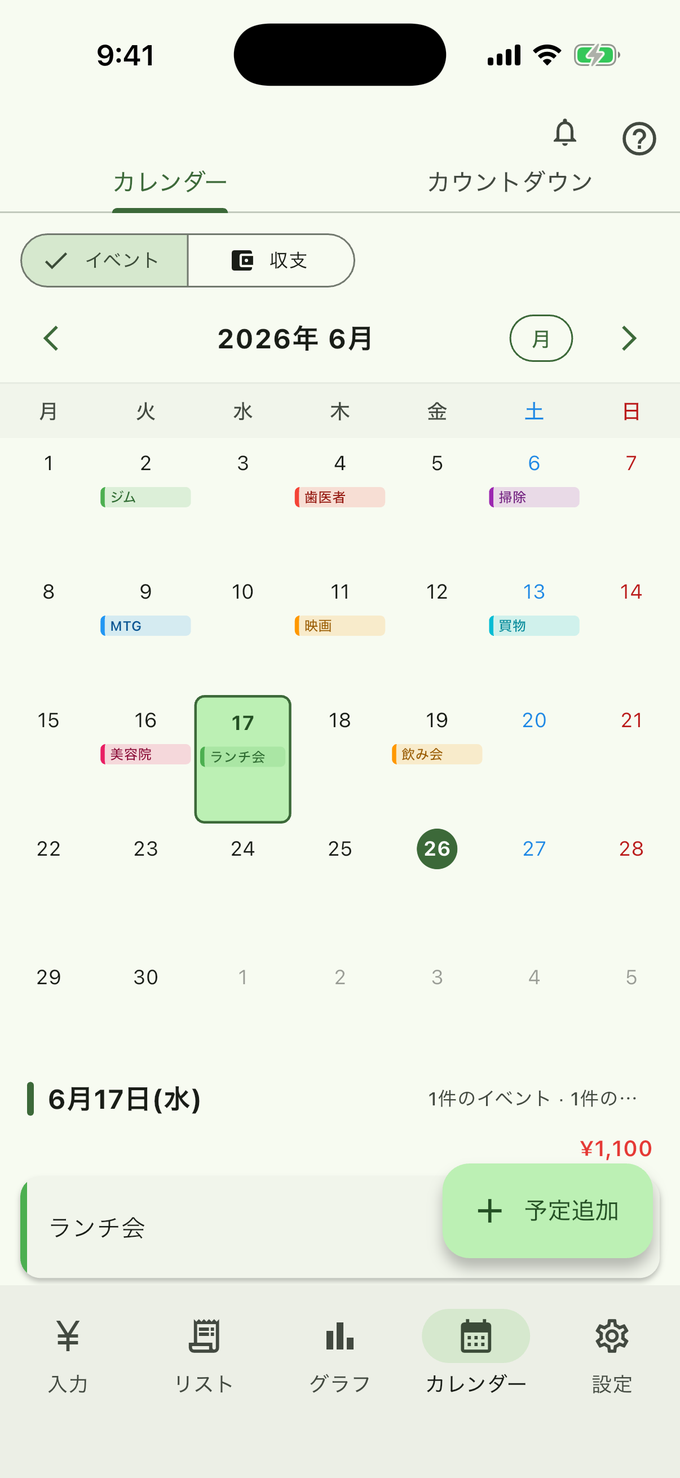
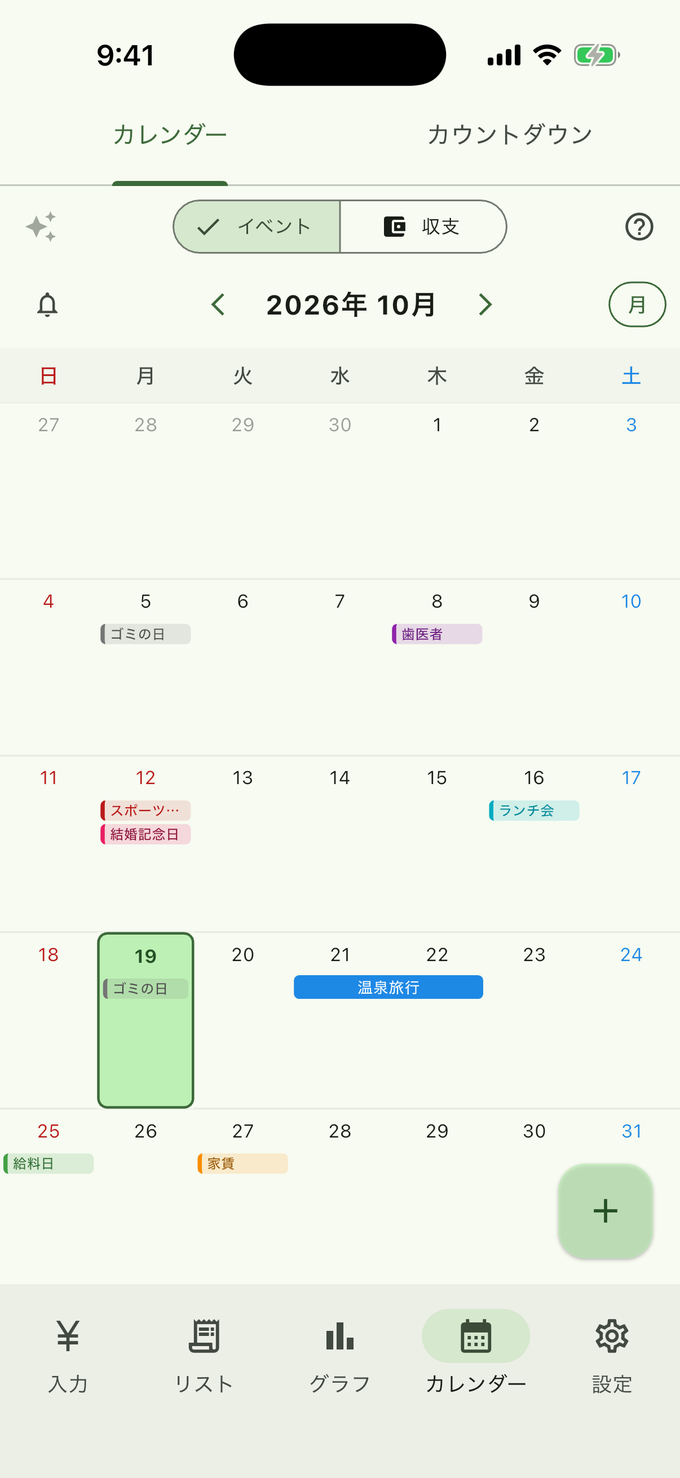
スクリーンショットを最新画面に差し替え、ギャラリーをストアと同じ順番に（共有・グラフ・カレンダー・AIレシート・音声入力・予算・財布・入力）。AIレシートの説明を全プラン対応に修正

diff --git a/index.html b/index.html
@@ -213,7 +213,7 @@
     <div class="features">
       <div class="card reveal"><div class="ic">🤝</div><h3>家族・カップルで共有</h3><p>招待コード・<wbr>QRコード・<wbr>LINEリンクで<wbr>かんたん招待。<wbr>入力した収支は<wbr>リアルタイムに<wbr>同期されます。</p></div>
       <div class="card reveal"><div class="ic">🗣</div><h3>Siriで音声入力</h3><p>「家計簿に入力して」と<wbr>話すだけ。<wbr>カテゴリ・金額・<wbr>品目をまとめて<wbr>ハンズフリーで<wbr>記録できます。</p></div>
-      <div class="card reveal"><div class="ic">🧾</div><h3>レシート読み取り</h3><p>端末内OCRで<wbr>かざすだけ。<wbr>シルバー以上なら<wbr>AIが品目・金額・<wbr>カテゴリを<wbr>高精度で自動認識。</p></div>
+      <div class="card reveal"><div class="ic">🧾</div><h3>レシート読み取り</h3><p>端末内OCRで<wbr>かざすだけ。<wbr>AI高精度なら<wbr>品目・金額・<wbr>カテゴリまで<wbr>自動で読み取り<wbr>（プランごとに<wbr>月の枚数上限あり）。</p></div>
       <div class="card reveal"><div class="ic">📊</div><h3>グラフで見える化</h3><p>推移・月別・年別の<wbr>カテゴリ内訳を<wbr>グラフで表示。<wbr>メンバー別の<wbr>絞り込みも<wbr>できます。</p></div>
       <div class="card reveal"><div class="ic">📅</div><h3>共有カレンダー</h3><p>家族の予定を共有。<wbr>記念日までの<wbr>カウントダウン、<wbr>月表示・<wbr>週表示の<wbr>切り替えも。</p></div>
       <div class="card reveal"><div class="ic">💰</div><h3>予算管理</h3><p>カテゴリごとに<wbr>予算を設定。<wbr>毎月の繰り返しにも<wbr>対応。<wbr>電卓機能で<wbr>利率計算も。</p></div>
@@ -260,13 +260,14 @@
   </div>
   <div class="gallery-wrap reveal" id="galleryWrap">
     <div class="gallery-track gallery" id="galleryTrack">
-      <div class="shot"><div class="phone"><img src="shot-add.png" alt="" draggable="false"></div><div class="cap">かんたん入力</div></div>
-      <div class="shot"><div class="phone"><img src="shot-list.png" alt="" draggable="false"></div><div class="cap">取引リスト</div></div>
+      <div class="shot"><div class="phone"><img src="shot-list.png" alt="" draggable="false"></div><div class="cap">ふたりで共有</div></div>
       <div class="shot"><div class="phone"><img src="shot-graph.png" alt="" draggable="false"></div><div class="cap">グラフ</div></div>
       <div class="shot"><div class="phone"><img src="shot-calendar.png" alt="" draggable="false"></div><div class="cap">カレンダー</div></div>
-      <div class="shot"><div class="phone"><img src="shot-siri.jpg" alt="" draggable="false"></div><div class="cap">Siri音声入力</div></div>
-      <div class="shot"><div class="phone"><img src="shot-receipt.png" alt="" draggable="false"></div><div class="cap">レシート読み取り</div></div>
-      <div class="shot"><div class="phone"><img src="shot-paywall.png" alt="" draggable="false"></div><div class="cap">料金プラン</div></div>
+      <div class="shot"><div class="phone"><img src="shot-receipt.png" alt="" draggable="false"></div><div class="cap">AIレシート読み取り</div></div>
+      <div class="shot"><div class="phone"><img src="shot-voice.png" alt="" draggable="false"></div><div class="cap">音声入力</div></div>
+      <div class="shot"><div class="phone"><img src="shot-budget.png" alt="" draggable="false"></div><div class="cap">予算</div></div>
+      <div class="shot"><div class="phone"><img src="shot-wallet.png" alt="" draggable="false"></div><div class="cap">財布</div></div>
+      <div class="shot"><div class="phone"><img src="shot-add.png" alt="" draggable="false"></div><div class="cap">かんたん入力</div></div>
     </div>
     <div class="gallery-dots" id="galleryDots"></div>
   </div>
